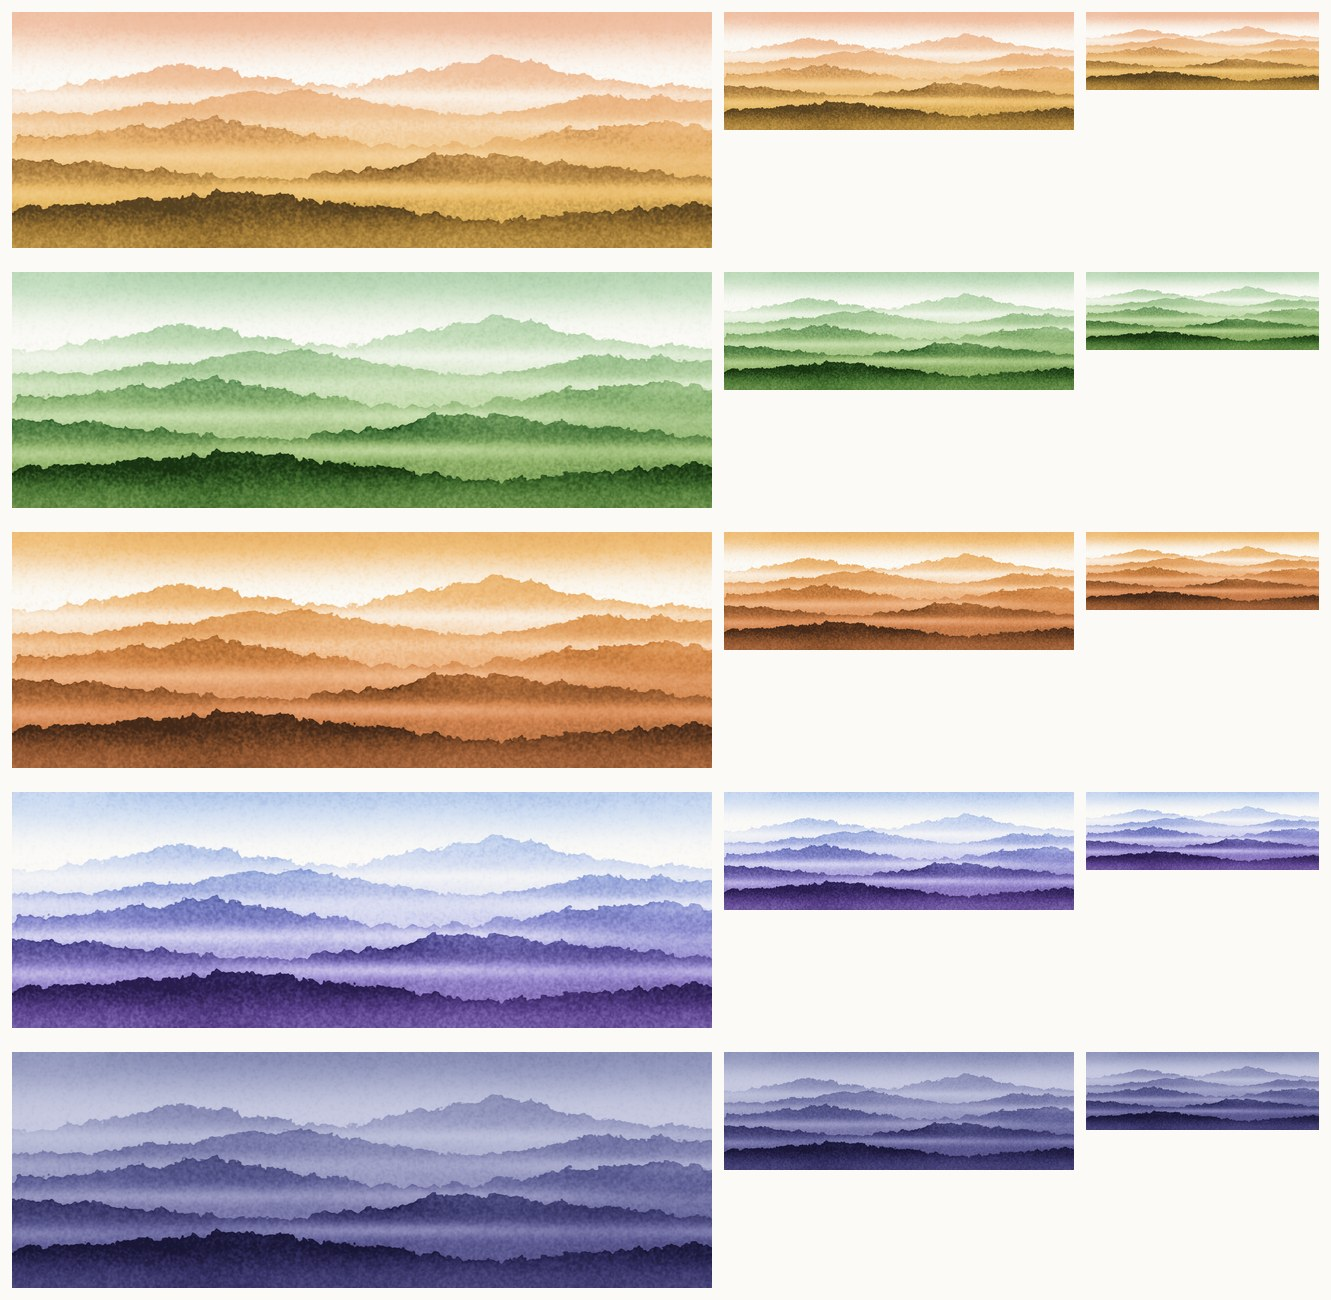
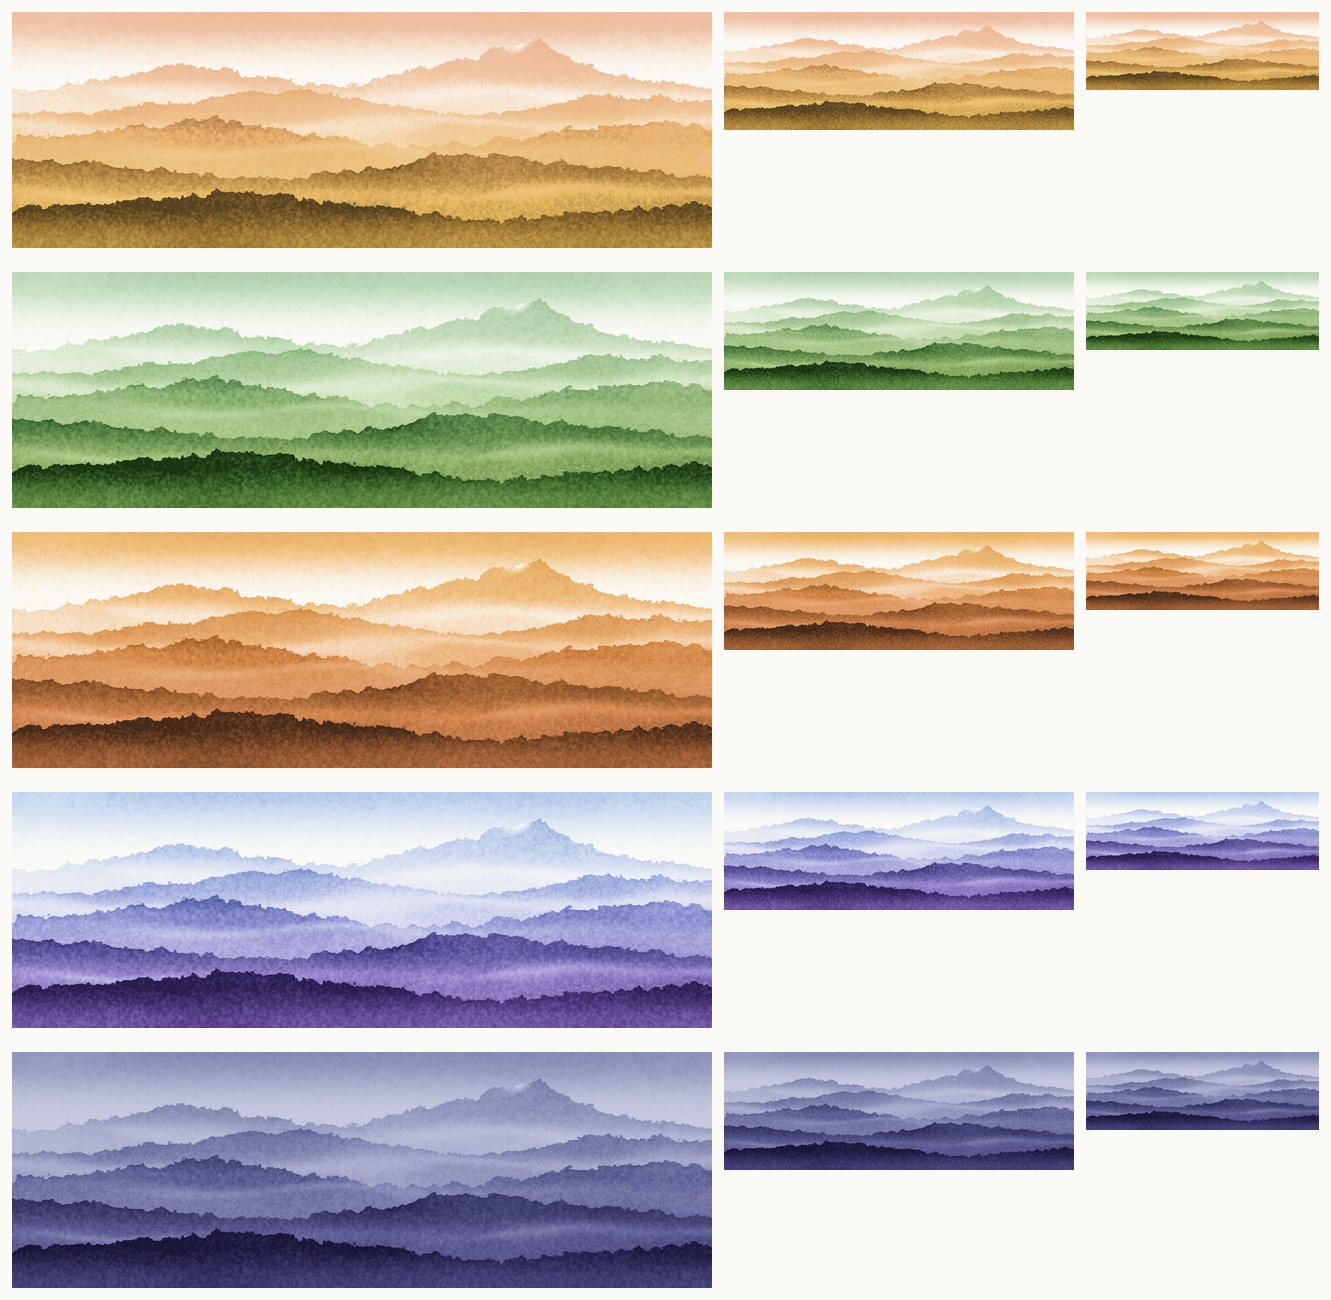
Mountains: Ranges revised after review, gate record, reviewers' answers on the scene set
Claude-Session: https://claude.ai/code/session_012NdevCAvT4U8qS7nMJ64YM

diff --git a/tools/scenes/mountains.py b/tools/scenes/mountains.py
@@ -33,6 +33,16 @@ def snow(p, prof, m, depth, seed, lit=1.0):
     p.lift(0.66 * cap * shade)
 
 
+def haze(p, y0, tilt, height, strength, seed):
+    """Mist that lies along a valley: its line tilts and wanders, its depth varies, and it thins out in places."""
+    n = noise(seed, 3.0, sigma_x=120.0); n = n[H // 2][None, :] if n.ndim == 2 else n
+    w = noise(seed + 1, 3.0, sigma_x=80.0); w = w[H // 3][None, :]
+    yc = y0 + tilt * (XN - 0.5) + 0.018 * n
+    hh = height * (1.0 + 0.45 * w)
+    thin = smoothstep(-1.2, 0.4, noise(seed + 2, 3.0, sigma_x=150.0)[H // 4][None, :])
+    p.lift(strength * np.exp(-((YN - yc) / np.maximum(hh, 0.02)) ** 2) * (0.35 + 0.65 * thin))
+
+
 def variant_a() -> np.ndarray:
     """Massif. One broad snow peak right of centre, a lower shoulder to the left, mist in the valley, a dark wooded spur."""
     p = Painting(paper_seed=17)
@@ -68,16 +78,20 @@ def variant_b() -> np.ndarray:
     above = np.ones_like(YN)
     sky(p, above, top=0.26, reach=0.30, seed=411)
     rows = [
-        ([(-0.05, .34), (.12, .30), (.24, .22), (.33, .26), (.46, .31), (.60, .24), (.70, .20), (.82, .27), (1.05, .33)], 0.24, .30),
+        ([(-0.05, .34), (.12, .30), (.24, .22), (.33, .26), (.46, .31), (.60, .23), (.70, .16), (.745, .125), (.80, .20), (.88, .27), (1.05, .33)], 0.24, .30),
         ([(-0.05, .40), (.10, .43), (.25, .38), (.40, .33), (.52, .39), (.68, .43), (.84, .36), (1.05, .40)], 0.32, .42),
         ([(-0.05, .56), (.14, .50), (.28, .46), (.42, .52), (.58, .57), (.74, .52), (.90, .47), (1.05, .50)], 0.42, .55),
         ([(-0.05, .62), (.18, .66), (.36, .70), (.52, .66), (.66, .61), (.82, .65), (1.05, .72)], 0.56, .70),
         ([(-0.05, .86), (.16, .80), (.32, .77), (.50, .82), (.70, .88), (.86, .84), (1.05, .80)], 0.80, .88),
     ]
     for i, (pts, d, base) in enumerate(rows):
-        ridge(p, pts, d, above, 421 + 20 * i, edge=2.4 - 0.25 * i, gran=0.060 + 0.005 * i, sigma=22 - 3 * i,
-              fade=(d * 0.55, base - 0.06, base + 0.10))
-        if i < 4: p.mist(base + 0.06, 0.035, 0.55 - 0.05 * i, seed=430 + 20 * i)
+        prof, m = ridge(p, pts, d, above, 421 + 20 * i, edge=2.4 - 0.25 * i, gran=0.060 + 0.005 * i, sigma=22 - 3 * i,
+                        fade=(d * 0.55, base - 0.06, base + 0.10))
+        if i == 0:                                             # one small cap of bare paper on the far summit, on the side toward the light
+            yy = np.arange(H)[:, None] * np.ones((1, W))
+            cap = smoothstep(0.05 * H, 0.008 * H, yy - prof[None, :]) * m * np.exp(-((XN - 0.728) / 0.022) ** 2) * smoothstep(0.75, 0.73, XN)
+            p.lift(0.92 * cap)
+        if i < 4: haze(p, base + (0.05, 0.07, 0.045, 0.065)[i], (0.03, -0.04, 0.05, -0.025)[i], (0.034, 0.048, 0.032, 0.040)[i], 0.58 - 0.09 * i, 430 + 20 * i)
     return p.finish()
 
 

diff --git a/docs/scenes/mountains/review.md b/docs/scenes/mountains/review.md
@@ -1,0 +1,39 @@
+# Mountains: scene gate record
+
+Not approved. No scene is built until the owner approves a variant. Painted by `tools/scenes/mountains.py`.
+
+## Variants, 16 November 2026
+
+| Variant | What it is | Reviews |
+|---|---|---|
+| A, Massif | One broad snow peak, valley mist, a dark wooded spur at left | Second. To fix before the owner sees it: snow on one side of each summit, broken by rock ribs at uneven spacing, with no outline. The spur's tree tips read as towers, which the Lake log already rejected |
+| B, Ranges | Five ridges, pale to dark, mist lying along the valleys, one small snow cap | First choice of the illustrator, the senior designer and the product owner. The only variant with no water and no wooded point |
+| C, Tarn | Two snow peaks mirrored in still water | Dropped. Both reviews said it is the Lake again with taller ridges |
+
+Changed in B after review: the mist bands were straight and equal, and read as ruled stripes. They now tilt along the valleys and vary in depth. The far right summit is higher and has one small cap of bare paper, so the picture reads as mountains and not hills.
+
+Open, for the illustrator and then the owner:
+- B has no mirrored lower half. `docs/spec.md` says every scene is built on a fold. Does mist count as the fold?
+- B stacks five ridge lines. Invariant 7 says one soft horizon.
+- A third variant with no water is owed, to replace C.
+
+Sizes: value layers are 164 to 168 KB at 3x, against 155 KB for the Lake. About 250 KB per scene with the 2x file. Five scenes fit in 1.5 MB. A sixth does not.
+
+## The scene set. Reviewers' answers to the owner's question
+
+Missing: every planned scene is dramatic wilderness. Flat, open, everyday land is absent.
+
+| Candidate | Illustrator | Senior designer and product owner |
+|---|---|---|
+| Open grassland or meadow: low horizon, wide sky, one line of flat-crowned trees | Suggested | Park. The strongest candidate for people who do not live near mountains or sea |
+| Reed marsh or delta: water channels between reed banks | Suggested | Park. Close to the Lake |
+| Karst hills: rounded limestone peaks in stepped mist above a flat river | Suggested | Not asked |
+| Snowfield or tundra | Not raised | No. Reads as weather, and is mostly bare paper |
+
+Other art in the same card:
+- Worth one drawing: graded washes with one soft horizon and no subject. Both reviews raised a version of this. It can also serve as a "no scene" option.
+- Worth one drawing: still water seen close, ripples only.
+- Needs the owner, because it breaks "one soft horizon": a botanical study. It must never grow or wilt.
+- Not to do: still lifes, sun or moon discs, stars, seasonal art, patterns that could read as a chart, anything that grows with use.
+
+None of this belongs before user testing of milestones 1 to 3. Scenes are milestone 5. A sixth scene needs a larger size budget, which is the owner's decision.
